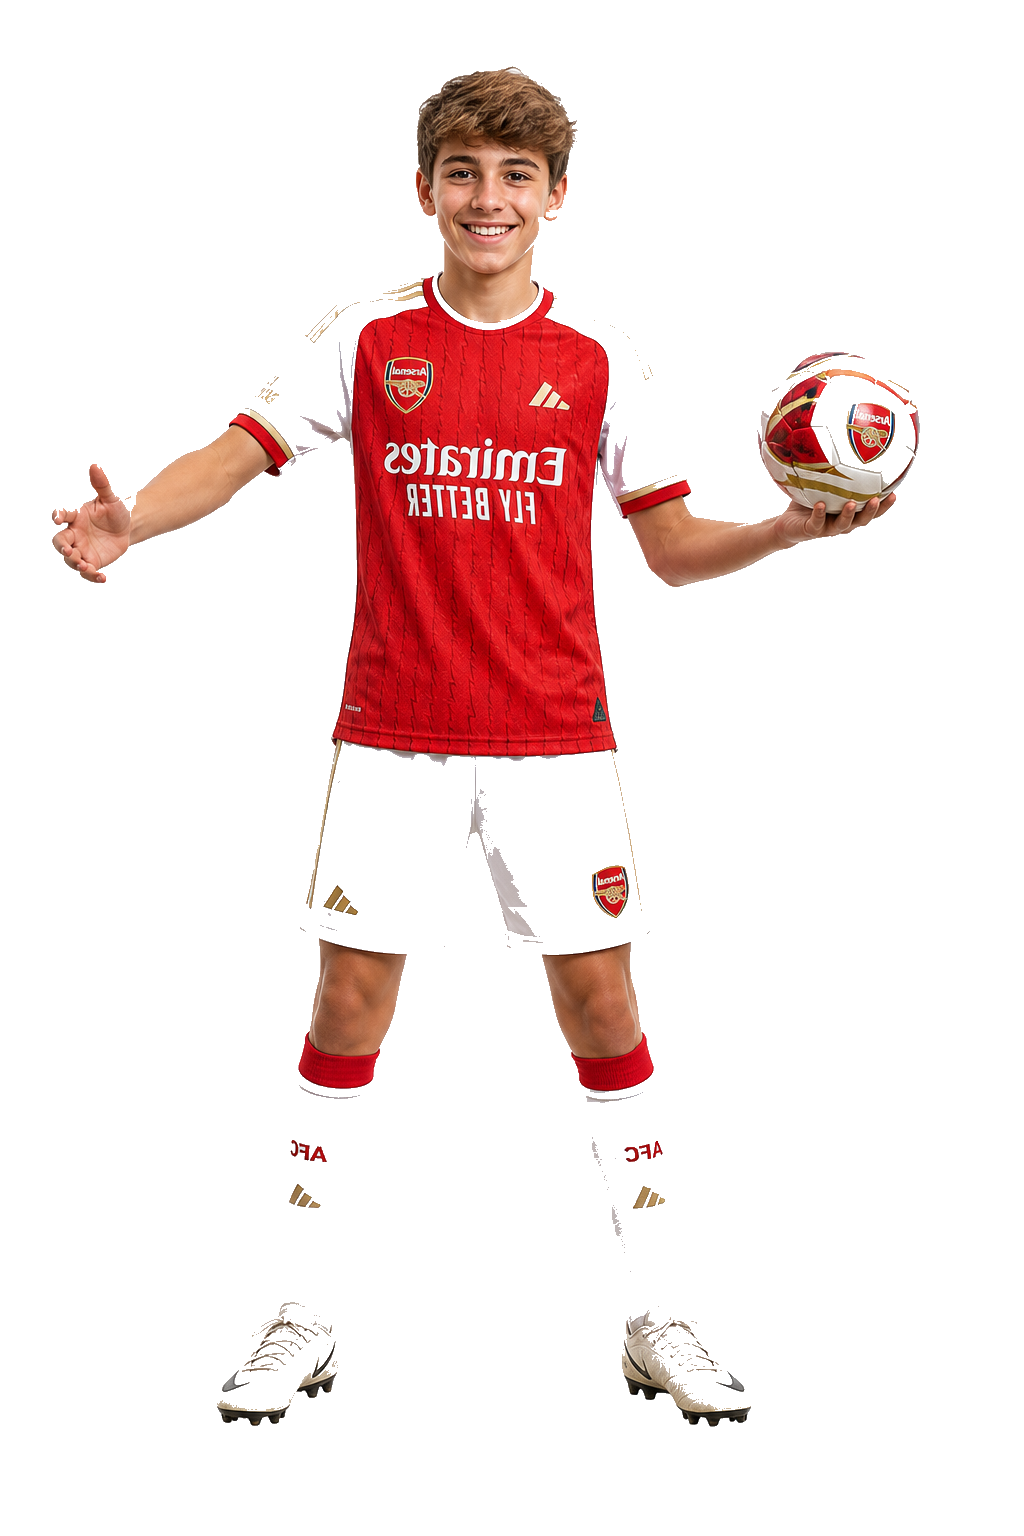
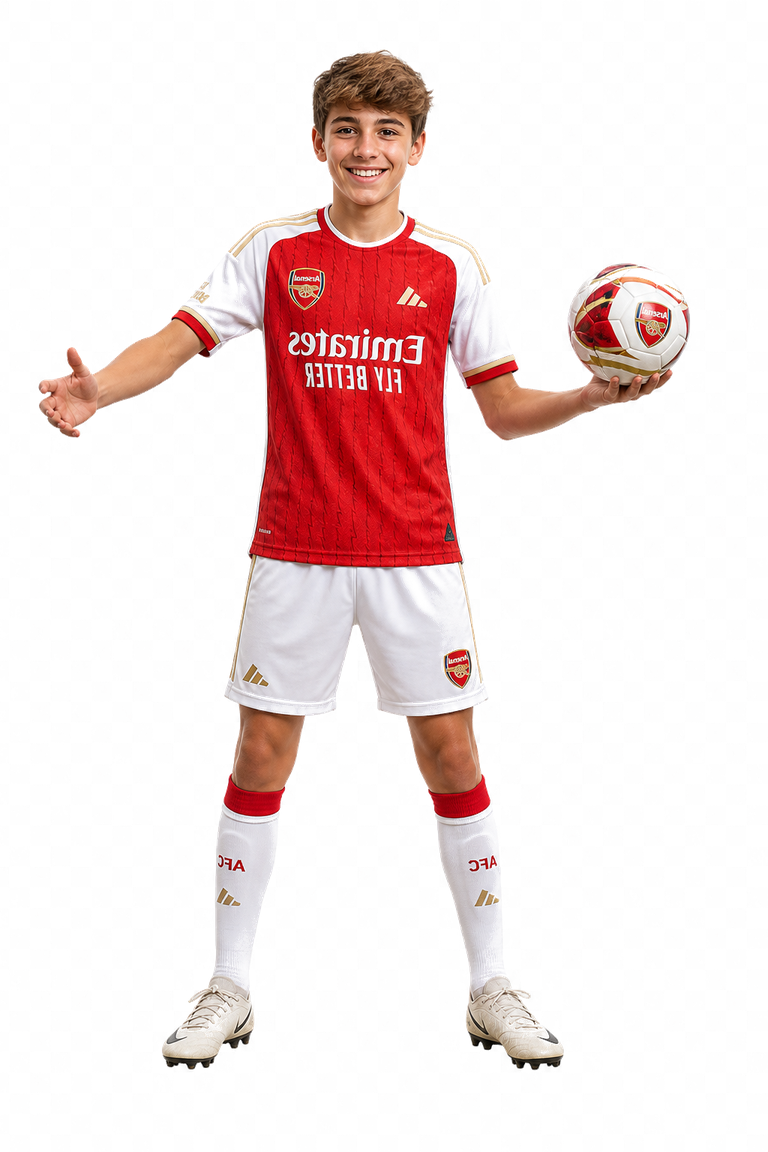
fix(philroyale): Tristan card uses clean portrait art again
Restore the original Tristan card/troop assets and stop using the fringed
troop cutout as the card portrait (that looked glitchy on profiles).

diff --git a/philroyale/src/characters/TristanModel.tsx b/philroyale/src/characters/TristanModel.tsx
@@ -24,15 +24,12 @@ export function TristanModel({ anim, facing, attackId, portrait }: Props) {
       anim={anim}
       facing={facing}
       portrait={portrait}
-      // Troop cutout on shared card blue — no photo studio plate / halo.
-      portraitSrc={TROOP}
-      objectPos="50% 8%"
-      portraitFilter="brightness(1) saturate(1)"
+      objectPos="50% 18%"
       gait="run"
       spriteLegs
       attack={anim === 'attack' && attackId === 'cheeseAndCucumbers' ? 'sundae' : 'none'}
-      legColor="#f0f0f4"
-      shoeColor="#1a1a20"
+      legColor="#1a1a20"
+      shoeColor="#0a0a0c"
     />
   )
 }
